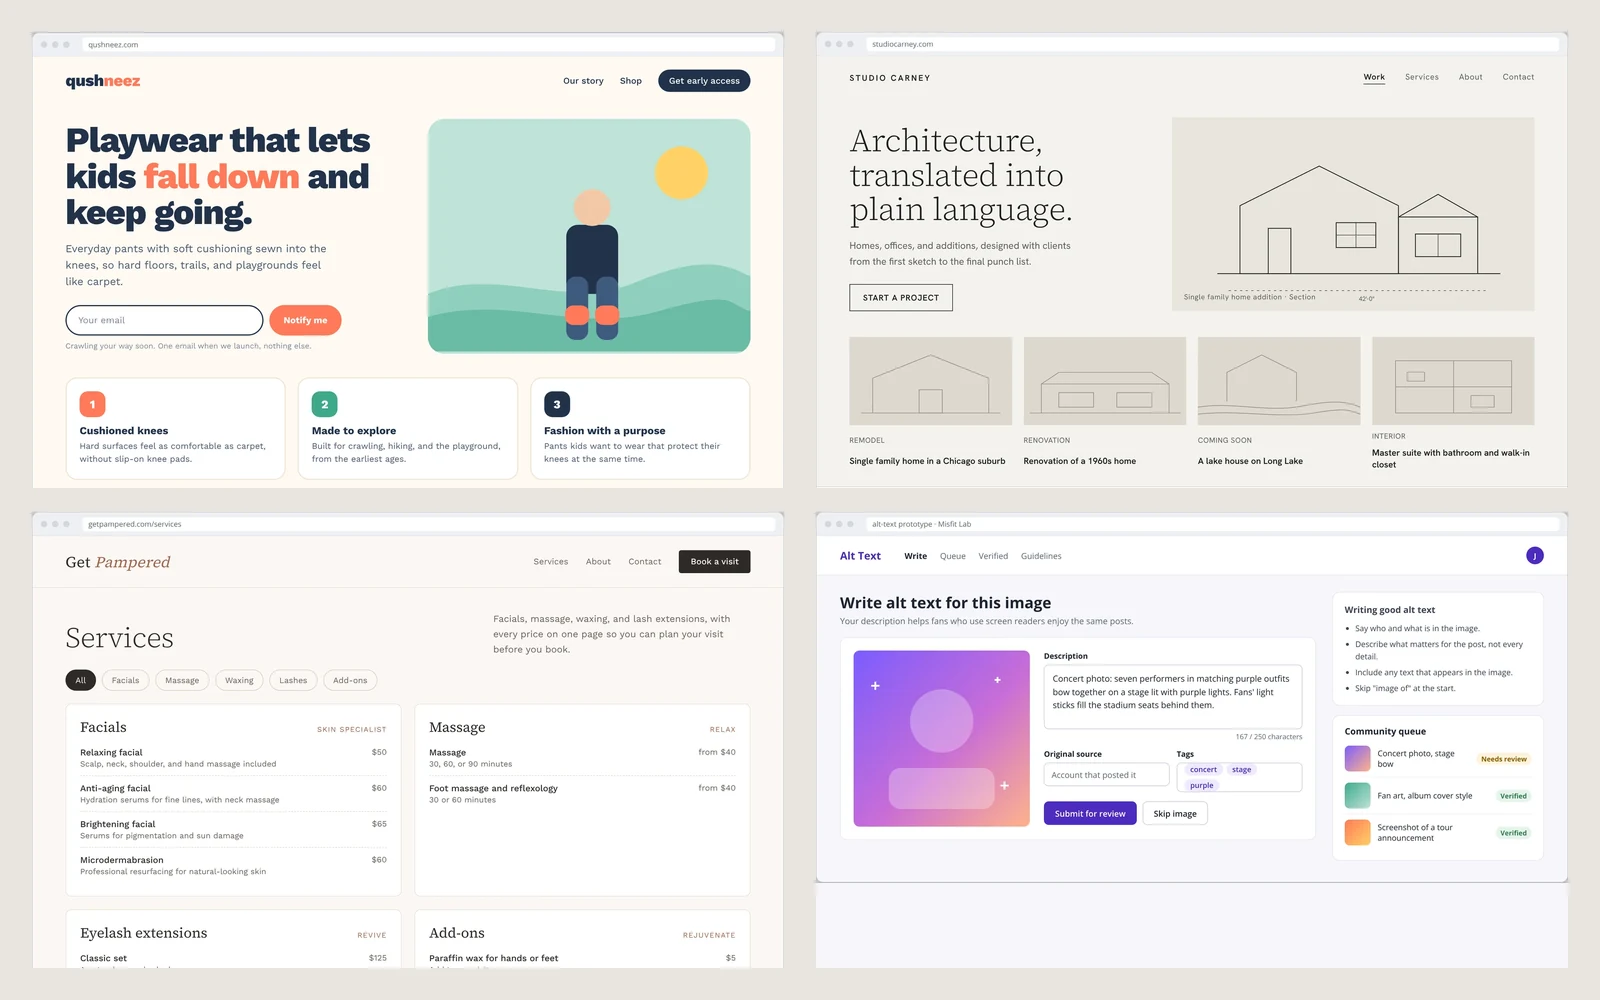
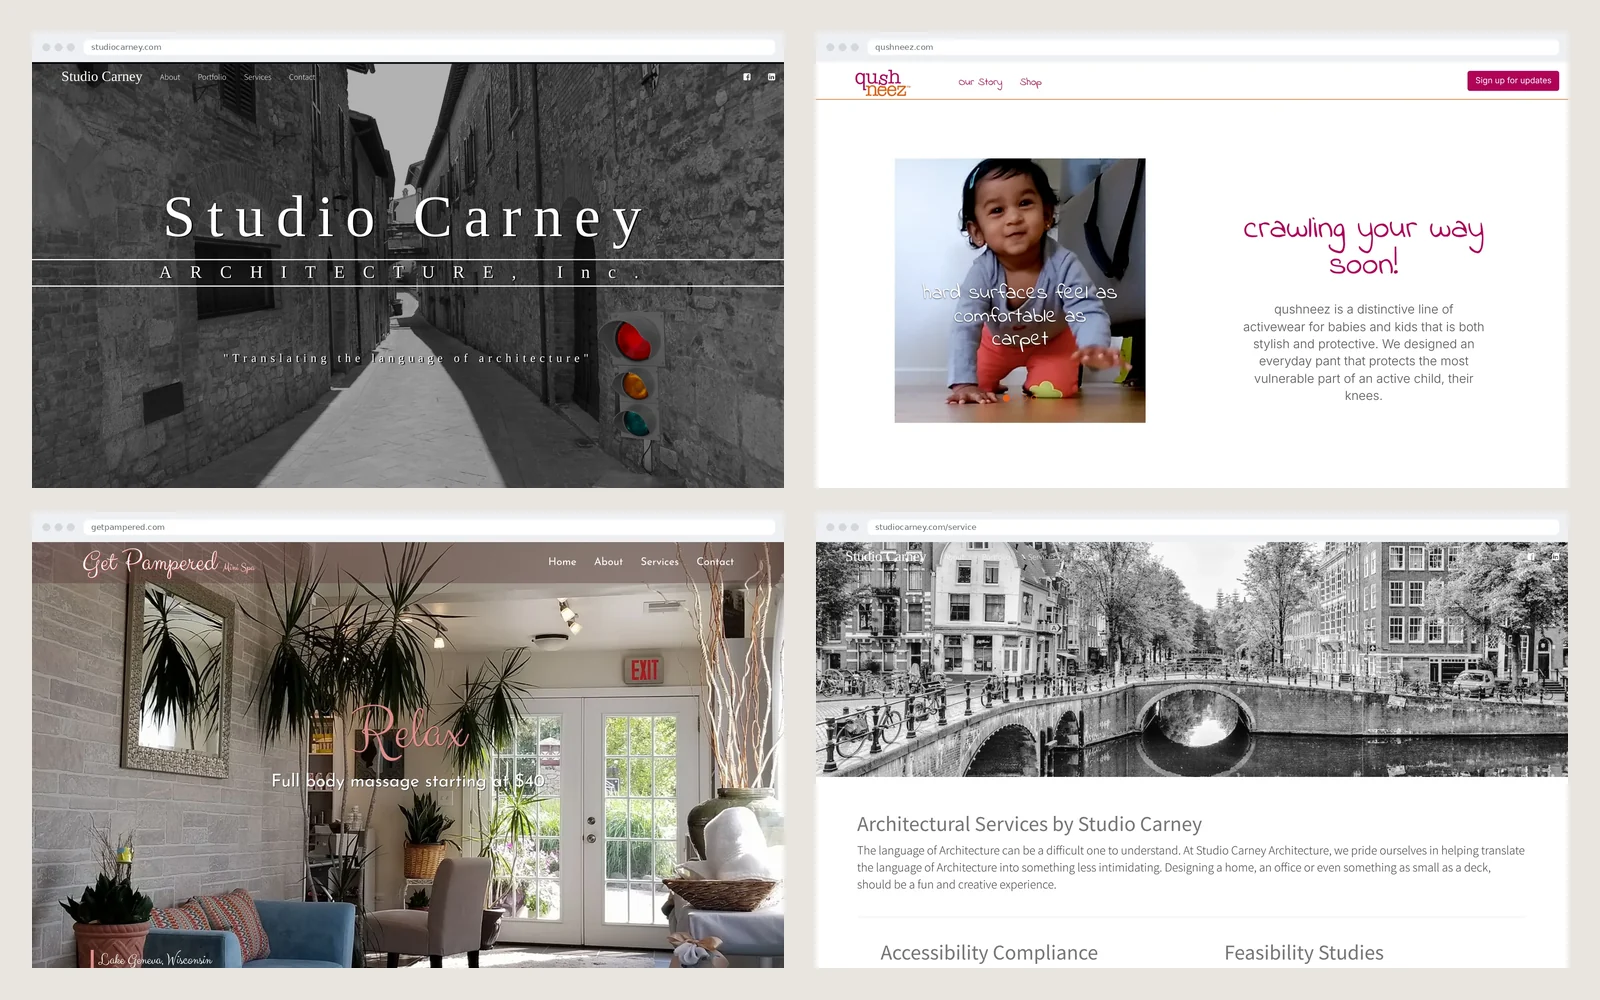
Side projects: show the original sites rendered from their views, styles, and images
Claude-Session: https://claude.ai/code/session_013nNpA9FBnVwprHwe8g4KGN

diff --git a/side-projects.html b/side-projects.html
@@ -3,14 +3,14 @@
 <head>
 <meta charset="utf-8">
 <meta name="viewport" content="width=device-width, initial-scale=1, viewport-fit=cover">
-<title>Side projects: Four small sites, redesigned from their original code · Justin Grant</title>
-<meta name="description" content="Freelance and research sites for an architecture firm, a kids&#x27; clothing startup, a day spa, and a Misfit Lab accessibility prototype, redesigned from the code I wrote.">
+<title>Side projects: Side projects · Justin Grant</title>
+<meta name="description" content="Websites I designed and built for an architecture firm, a children&#x27;s clothing startup, and a day spa.">
 <link rel="canonical" href="https://justingrant.design/side-projects.html">
 <meta name="author" content="Justin Grant">
 <meta property="og:type" content="website">
 <meta property="og:site_name" content="Justin Grant">
-<meta property="og:title" content="Side projects: Four small sites, redesigned from their original code · Justin Grant">
-<meta property="og:description" content="Freelance and research sites for an architecture firm, a kids&#x27; clothing startup, a day spa, and a Misfit Lab accessibility prototype, redesigned from the code I wrote.">
+<meta property="og:title" content="Side projects: Side projects · Justin Grant">
+<meta property="og:description" content="Websites I designed and built for an architecture firm, a children&#x27;s clothing startup, and a day spa.">
 <meta property="og:url" content="https://justingrant.design/side-projects.html">
 <meta property="og:image" content="https://justingrant.design/og.jpg">
 <meta property="og:image:width" content="1200">
@@ -206,7 +206,7 @@ main { padding:56px 0 96px; }
 @media (prefers-reduced-motion: reduce) { *, *::before, *::after { transition:none !important; scroll-behavior:auto !important; } .card:hover .shot img { transform:none; } }
 @media print { .top, .foot, .toc, .mode { display:none; } body { background:#fff; color:#000; } }
 </style>
-<script type="application/ld+json">{"@context": "https://schema.org", "@type": "CreativeWork", "name": "Four small sites, redesigned from their original code", "description": "Freelance and research sites for an architecture firm, a kids' clothing startup, a day spa, and a Misfit Lab accessibility prototype, redesigned from the code I wrote.", "url": "https://justingrant.design/side-projects.html", "author": {"@type": "Person", "name": "Justin Grant", "url": "https://justingrant.design/"}}</script>
+<script type="application/ld+json">{"@context": "https://schema.org", "@type": "CreativeWork", "name": "Side projects", "description": "Websites I designed and built for an architecture firm, a children's clothing startup, and a day spa.", "url": "https://justingrant.design/side-projects.html", "author": {"@type": "Person", "name": "Justin Grant", "url": "https://justingrant.design/"}}</script>
 </head>
 <body>
 <a class="skip" href="#main">Skip to content</a>
@@ -215,14 +215,14 @@ main { padding:56px 0 96px; }
   <nav class="nav" aria-label="Main"><a href="/index.html#work" aria-current="page">Work</a><a href="/about.html">About</a><a href="/resume.html">Résumé</a><a href="/index.html#contact" class="hide-sm">Contact</a><button class="mode" id="mode" type="button" aria-label="Switch to light mode" aria-pressed="false"><svg viewBox="0 0 24 24" fill="none" stroke="currentColor" stroke-width="1.8" stroke-linecap="round" aria-hidden="true"><circle cx="12" cy="12" r="4"/><path d="M12 2v2M12 20v2M4.9 4.9l1.4 1.4M17.7 17.7l1.4 1.4M2 12h2M20 12h2M4.9 19.1l1.4-1.4M17.7 6.3l1.4-1.4"/></svg></button></nav>
 </div></header>
 <main id="main" class="wrap">
-<div class="case"><aside class="toc" aria-label="On this page"><p>Contents</p><a href="#overview">Overview</a><a href="#results">Results</a><a href="#approach">Start from what the code already does</a><a href="#studio-carney">Studio Carney</a><a href="#qushneez">qushneez</a><a href="#get-pampered">Get Pampered</a><a href="#alt-text">Community alt text for Misfit Lab</a></aside>
+<div class="case"><aside class="toc" aria-label="On this page"><p>Contents</p><a href="#overview">Overview</a><a href="#results">Results</a><a href="#studio-carney">Studio Carney</a><a href="#qushneez">qushneez</a><a href="#get-pampered">Get Pampered</a></aside>
 <article>
 <a class="back" href="/index.html#work">← All work</a>
-<header id="overview"><p class="eyebrow">Side projects · Web design and development</p><h1 class="statement">Four small sites, redesigned from their original code</h1><dl class="meta"><div><dt>Role</dt><dd>Designer and developer</dd></div><div><dt>Clients</dt><dd>Small businesses and a research lab</dd></div><div><dt>Time</dt><dd>2015–2022</dd></div><div><dt>Stack</dt><dd>Ruby on Rails, HTML, CSS</dd></div></dl></header>
-<figure class="hero-shot"><img src="images/side-cover.webp" width="1600" height="1000" alt="Four redesigned sites: qushneez, Studio Carney, Get Pampered, and an alt-text prototype." fetchpriority="high" decoding="async"></figure>
-<section class="results" id="results" aria-label="Results"><div><b>4</b><span>sites redesigned from their code</span></div><div><b>154</b><span>commits on the Studio Carney site</span></div><div><b>3</b><span>small-business clients</span></div><div><b>1</b><span>accessibility research prototype</span></div></section>
-<section class="sec" id="approach"><p class="eyebrow">Approach</p><h2>Start from what the code already does</h2><p>I went back to each repository, listed every page, model, and form, and redesigned around the content and features that were really there. Copy, services, and prices come from the original sites.</p></section><section class="sec" id="studio-carney"><p class="eyebrow">Architecture firm</p><h2>Studio Carney</h2><p>The original site gave the firm a content editor, image uploads, and staff accounts to publish projects. The redesign leads with line drawings instead of stock photos, shows four projects at a glance, and lists all services, with accessibility compliance, adaptive reuse, and historic preservation called out.</p><figure class="fig"><a class="frame" href="images/side-studiocarney.webp" aria-label="Open full size"><img src="images/side-studiocarney.webp" width="1600" height="1376" alt="Studio Carney redesign with a line-drawing hero, four project cards, and a services list." loading="lazy" decoding="async"></a><figcaption>Redesigned from the 2015–2018 Rails site.</figcaption></figure></section><section class="sec" id="qushneez"><p class="eyebrow">Kids' clothing startup</p><h2>qushneez</h2><p>A pre-launch site for everyday pants with cushioned knees, with a shop, a founder story, and a newsletter sign-up with branded confirmation emails. The redesign leads with the problem parents have, keeps one email field above the fold, and turns the founder story into three plain benefits.</p><figure class="fig"><a class="frame" href="images/side-qushneez.webp" aria-label="Open full size"><img src="images/side-qushneez.webp" width="1600" height="1011" alt="qushneez redesign with a bold headline, an email sign-up, an illustration, and three benefit cards." loading="lazy" decoding="async"></a><figcaption>Redesigned from the 2017 Rails site.</figcaption></figure></section><section class="sec" id="get-pampered"><p class="eyebrow">Day spa</p><h2>Get Pampered</h2><p>The original site listed services, took messages through a contact form, and used structured data so the spa showed up in local search. The redesign puts every service and price on one page, grouped by category with filter tabs, and keeps one Book a visit button in view.</p><figure class="fig"><a class="frame" href="images/side-getpampered.webp" aria-label="Open full size"><img src="images/side-getpampered.webp" width="1600" height="1259" alt="Get Pampered redesign with service categories, prices, and filter tabs." loading="lazy" decoding="async"></a><figcaption>Redesigned from the 2016–2019 Rails site. Prices are from the original site.</figcaption></figure></section><section class="sec" id="alt-text"><p class="eyebrow">Research prototype</p><h2>Community alt text for Misfit Lab</h2><p>A prototype for UC Santa Cruz's Misfit Lab, where BTS ARMY fans upload an image, write a description, credit the source, add tags, and mark it verified. The redesign puts writing guidance beside the field, adds a character count, and shows a community queue with review status.</p><figure class="fig"><a class="frame" href="images/side-alttext.webp" aria-label="Open full size"><img src="images/side-alttext.webp" width="1600" height="790" alt="Alt-text prototype redesign with an image, a description field, source and tag fields, guidance, and a review queue." loading="lazy" decoding="async"></a><figcaption>Redesigned from the 2022 Rails prototype.</figcaption></figure></section>
-<section class="sec" id="outcome"><p class="eyebrow">Result</p><h2>Four sites redesigned from their original code, from a firm portfolio to an accessibility research tool.</h2></section>
+<header id="overview"><p class="eyebrow">Side projects · Web design and development</p><h1 class="statement">Side projects</h1><dl class="meta"><div><dt>Role</dt><dd>Designer and developer</dd></div><div><dt>Clients</dt><dd>Small businesses</dd></div><div><dt>Time</dt><dd>2015–2019</dd></div><div><dt>Stack</dt><dd>Ruby on Rails, Bootstrap, Sass</dd></div></dl></header>
+<figure class="hero-shot"><img src="images/side-cover.webp" width="1600" height="1000" alt="Home pages for Studio Carney, qushneez, and Get Pampered, and the Studio Carney services page." fetchpriority="high" decoding="async"></figure>
+<section class="results" id="results" aria-label="Results"><div><b>3</b><span>client websites</span></div><div><b>154</b><span>commits on the Studio Carney site</span></div><div><b>21</b><span>services listed for Studio Carney</span></div><div><b>5</b><span>service menus for Get Pampered</span></div></section>
+<section class="sec" id="studio-carney"><p class="eyebrow">Architecture firm</p><h2>Studio Carney</h2><p>A portfolio site for an architecture firm. Staff could sign in, add projects, upload photos, and edit pages through a content editor. The services page lists all 21 services, including accessibility compliance and historic preservation, with a contact form.</p><figure class="fig"><a class="frame" href="images/side-sc-home.webp" aria-label="Open full size"><img src="images/side-sc-home.webp" width="1600" height="1065" alt="Studio Carney home page with a black and white street photo and the firm name." loading="lazy" decoding="async"></a><figcaption>Home page.</figcaption></figure><figure class="fig"><a class="frame" href="images/side-sc-services.webp" aria-label="Open full size"><img src="images/side-sc-services.webp" width="1600" height="1920" alt="Studio Carney services page with a canal photo, an introduction, and two columns of services." loading="lazy" decoding="async"></a><figcaption>Services page.</figcaption></figure></section><section class="sec" id="qushneez"><p class="eyebrow">Children's clothing startup</p><h2>qushneez</h2><p>A pre-launch site for children's pants with cushioned knees. It explained the product, collected email sign-ups for launch updates, and sent branded confirmation emails.</p><figure class="fig"><a class="frame" href="images/side-qz-home.webp" aria-label="Open full size"><img src="images/side-qz-home.webp" width="1600" height="3770" alt="qushneez home page with a product photo, brand message, product diagram, benefits, and a customer quote." loading="lazy" decoding="async"></a><figcaption>Home page.</figcaption></figure></section><section class="sec" id="get-pampered"><p class="eyebrow">Day spa</p><h2>Get Pampered</h2><p>A site for a day spa. The home page introduces the spa and its main treatments, and the services page puts massage, waxing, facials, lash extensions, and add-ons in tabbed price menus. Structured data helped the spa appear in local search.</p><figure class="fig"><a class="frame" href="images/side-gp-home.webp" aria-label="Open full size"><img src="images/side-gp-home.webp" width="1600" height="3246" alt="Get Pampered home page with a photo of the spa, three introductions, and treatment sections." loading="lazy" decoding="async"></a><figcaption>Home page.</figcaption></figure><figure class="fig"><a class="frame" href="images/side-gp-services.webp" aria-label="Open full size"><img src="images/side-gp-services.webp" width="1600" height="1512" alt="Get Pampered services page with tabs for each service type and a price table." loading="lazy" decoding="async"></a><figcaption>Services page.</figcaption></figure></section>
+<section class="sec" id="outcome"><p class="eyebrow">Result</p><h2>Three client websites, designed and built end to end.</h2></section>
 
 <nav class="next" aria-label="More work"><a href="indeed.html"><span>Previous</span><strong>Indeed</strong></a><a href="mdc.html"><span>Next</span><strong>Mozilla Data Collective</strong></a></nav>
 </article></div>

diff --git a/index.html b/index.html
@@ -222,7 +222,7 @@ main { padding:56px 0 96px; }
 </section>
 <section id="work" aria-labelledby="work-h">
   <div class="section-h"><h2 id="work-h" class="eyebrow">Selected work</h2><span class="eyebrow">2015–2026</span></div>
-  <div class="cards"><a class="card" href="mdc.html"><div class="shot"><img src="images/mdc-final-quality.webp" width="1600" height="1075" alt="Mozilla Data Collective dataset page with a Request access panel and trust and quality signals." fetchpriority="high" decoding="async"></div><div class="card-meta"><span>Mozilla Data Collective · 2025–2026</span><span>Product design</span></div><h3>Designing an AI data platform, end to end</h3></a><a class="card" href="common-voice.html"><div class="shot"><img src="images/voice-shipped-card.webp" width="960" height="653" alt="The shipped Spontaneous Speech answer flow in Common Voice." fetchpriority="high" decoding="async"></div><div class="card-meta"><span>Mozilla Common Voice · 2024–2026</span><span>Web UX</span></div><h3>Better voice data, collected at the source</h3></a><a class="card" href="hrsimple.html"><div class="shot"><img src="images/hrsimple-reader-card.webp" width="960" height="519" alt="The hrsimple reader with the chapter list, the law, related forms, and an outline." loading="lazy" decoding="async"></div><div class="card-meta"><span>hrsimple.com · 2015–2023</span><span>Publishing UX</span></div><h3>Making employment law easy to find, read, and buy</h3></a><a class="card" href="aleks.html"><div class="shot"><img src="images/aleks-cover.webp" width="1600" height="1000" alt="Recreated concept of a live class view that flags students who need help, explains why, and lets the teacher change an assignment." loading="lazy" decoding="async"></div><div class="card-meta"><span>McGraw Hill ALEKS · 2023</span><span>EdTech research</span></div><h3>Taking the research into the classroom</h3></a><a class="card" href="indeed.html"><div class="shot"><img src="images/indeed-cover.webp" width="1600" height="1000" alt="Recreated service blueprint for the migration across five phases and four lanes, with the line of visibility marked." loading="lazy" decoding="async"></div><div class="card-meta"><span>Indeed · 2023–2024</span><span>Enterprise research</span></div><h3>Planning a 7,000-person migration around how work really flows</h3></a><a class="card" href="side-projects.html"><div class="shot"><img src="images/side-cover.webp" width="1600" height="1000" alt="Four redesigned sites: qushneez, Studio Carney, Get Pampered, and an alt-text prototype." loading="lazy" decoding="async"></div><div class="card-meta"><span>Side projects · 2015–2022</span><span>Web design and development</span></div><h3>Four small sites, redesigned from their original code</h3></a></div>
+  <div class="cards"><a class="card" href="mdc.html"><div class="shot"><img src="images/mdc-final-quality.webp" width="1600" height="1075" alt="Mozilla Data Collective dataset page with a Request access panel and trust and quality signals." fetchpriority="high" decoding="async"></div><div class="card-meta"><span>Mozilla Data Collective · 2025–2026</span><span>Product design</span></div><h3>Designing an AI data platform, end to end</h3></a><a class="card" href="common-voice.html"><div class="shot"><img src="images/voice-shipped-card.webp" width="960" height="653" alt="The shipped Spontaneous Speech answer flow in Common Voice." fetchpriority="high" decoding="async"></div><div class="card-meta"><span>Mozilla Common Voice · 2024–2026</span><span>Web UX</span></div><h3>Better voice data, collected at the source</h3></a><a class="card" href="hrsimple.html"><div class="shot"><img src="images/hrsimple-reader-card.webp" width="960" height="519" alt="The hrsimple reader with the chapter list, the law, related forms, and an outline." loading="lazy" decoding="async"></div><div class="card-meta"><span>hrsimple.com · 2015–2023</span><span>Publishing UX</span></div><h3>Making employment law easy to find, read, and buy</h3></a><a class="card" href="aleks.html"><div class="shot"><img src="images/aleks-cover.webp" width="1600" height="1000" alt="Recreated concept of a live class view that flags students who need help, explains why, and lets the teacher change an assignment." loading="lazy" decoding="async"></div><div class="card-meta"><span>McGraw Hill ALEKS · 2023</span><span>EdTech research</span></div><h3>Taking the research into the classroom</h3></a><a class="card" href="indeed.html"><div class="shot"><img src="images/indeed-cover.webp" width="1600" height="1000" alt="Recreated service blueprint for the migration across five phases and four lanes, with the line of visibility marked." loading="lazy" decoding="async"></div><div class="card-meta"><span>Indeed · 2023–2024</span><span>Enterprise research</span></div><h3>Planning a 7,000-person migration around how work really flows</h3></a><a class="card" href="side-projects.html"><div class="shot"><img src="images/side-cover.webp" width="1600" height="1000" alt="Home pages for Studio Carney, qushneez, and Get Pampered, and the Studio Carney services page." loading="lazy" decoding="async"></div><div class="card-meta"><span>Side projects · 2015–2019</span><span>Web design and development</span></div><h3>Side projects</h3></a></div>
 </section>
 <section class="contact" id="contact" aria-labelledby="contact-h">
   <h2 id="contact-h">Let's work together.</h2>
